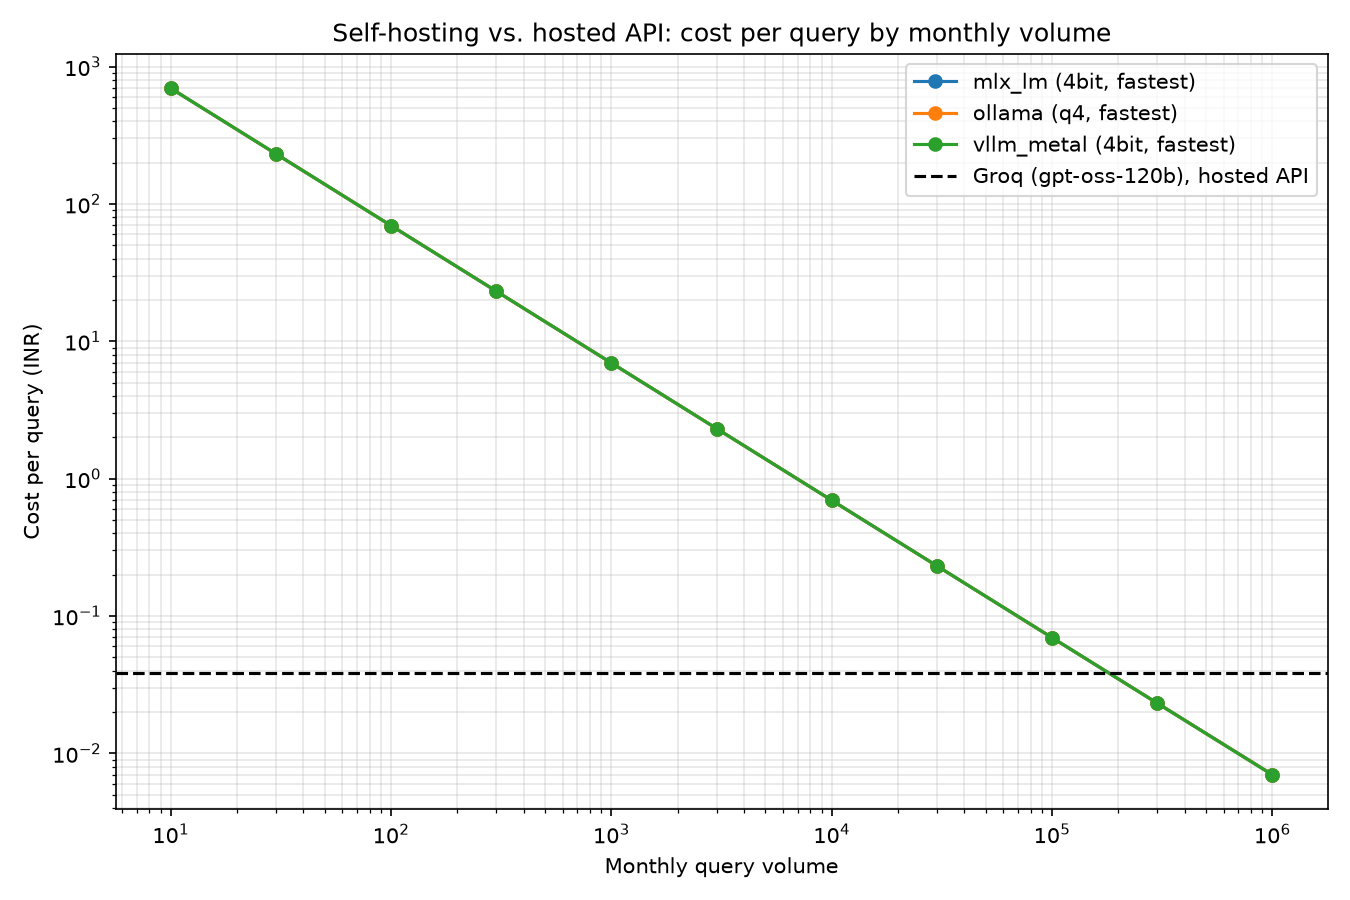
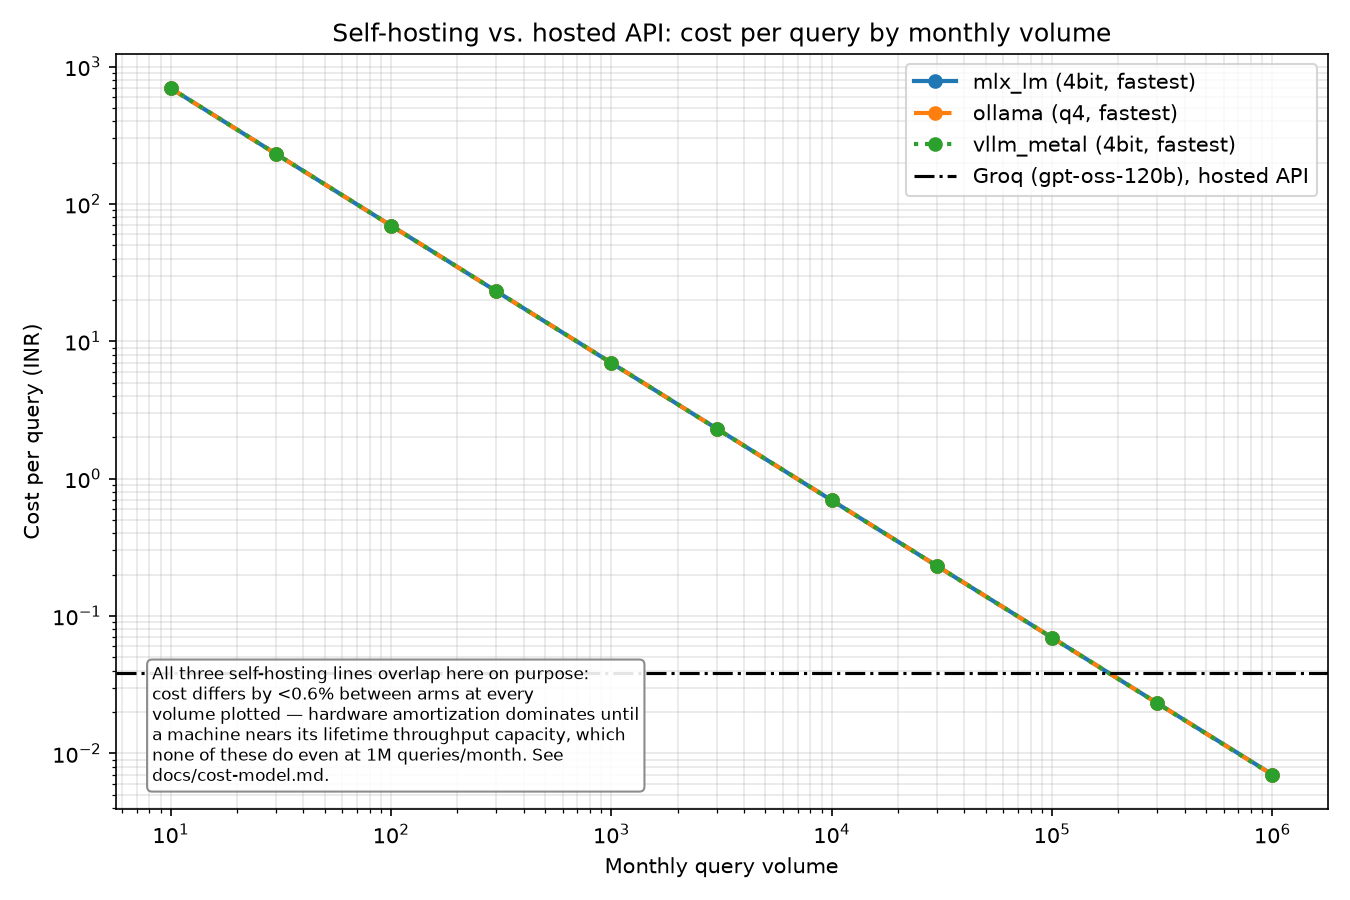
Fix break-even chart: mlx_lm/ollama lines were there, just invisible
Real bug report: mlx_lm and ollama appeared missing from
docs/break-even-curve.png. Checked the actual numbers rather than assuming
either "yes it's a bug" or "no it's fine" — all three curves were being
computed and plotted correctly, but at every volume in the grid (10 to
1,000,000 queries/month) none of the three arms get anywhere near the
machine's lifetime throughput capacity (utilization tops out around 20%
even at 1M/month), so cost is dominated entirely by throughput-independent
hardware amortization. The three lines differ by under 0.6% at every point
(verified: the max spread is at 1,000,000/month, not the 10k point the doc
text already called out) — invisible on a log-log plot regardless of
color.

Fixed by making this the chart's own explicit annotation instead of a
silent visual coincidence a reader has to puzzle out: computes the real
max relative spread across the grid and states it directly on the plot,
plus distinct linestyles (solid/dashed/dotted) per arm so it's visually
clear three series really were drawn, not that two are missing.

diff --git a/src/forge/phase3/build_report.py b/src/forge/phase3/build_report.py
@@ -175,6 +175,23 @@ def render_chart(results: list[dict], hosted_cost: float) -> None:
         ):
             fastest_per_arm[arm] = row
 
+    # Different linestyles, not just colors, per arm — see the annotation below for
+    # why: at every volume in this grid, the three self-hosting curves differ by
+    # well under 0.1%, so on a log-log plot they render as one visible line
+    # regardless of color. Distinguishable linestyles at least signal "three
+    # series were actually plotted here" rather than looking like two are missing.
+    linestyles = {"mlx_lm": "-", "ollama": "--", "vllm_metal": ":"}
+    max_relative_spread = 0.0
+    for volume in volumes:
+        costs_at_volume = [
+            local_cost_per_query(
+                ASSUMPTIONS, row["throughput_tokens_per_sec"], row["avg_completion_tokens"], volume
+            ).total_cost_inr
+            for row in fastest_per_arm.values()
+        ]
+        spread = (max(costs_at_volume) - min(costs_at_volume)) / min(costs_at_volume)
+        max_relative_spread = max(max_relative_spread, spread)
+
     for arm, row in fastest_per_arm.items():
         costs = [
             local_cost_per_query(
@@ -185,9 +202,16 @@ def render_chart(results: list[dict], hosted_cost: float) -> None:
             ).total_cost_inr
             for v in volumes
         ]
-        ax.plot(volumes, costs, marker="o", label=f"{arm} ({row['variant']}, fastest)")
+        ax.plot(
+            volumes,
+            costs,
+            marker="o",
+            linestyle=linestyles.get(arm, "-"),
+            linewidth=2,
+            label=f"{arm} ({row['variant']}, fastest)",
+        )
 
-    ax.axhline(hosted_cost, color="black", linestyle="--", label="Groq (gpt-oss-120b), hosted API")
+    ax.axhline(hosted_cost, color="black", linestyle="-.", label="Groq (gpt-oss-120b), hosted API")
     ax.set_xscale("log")
     ax.set_yscale("log")
     ax.set_xlabel("Monthly query volume")
@@ -195,6 +219,25 @@ def render_chart(results: list[dict], hosted_cost: float) -> None:
     ax.set_title("Self-hosting vs. hosted API: cost per query by monthly volume")
     ax.legend()
     ax.grid(True, which="both", alpha=0.3)
+    # The three self-hosting lines are visually indistinguishable on purpose, not
+    # a plotting bug: hardware amortization dominates cost at every volume this
+    # grid tests (none of the three variants approach the machine's lifetime
+    # throughput capacity even at 1M queries/month — see docs/cost-model.md), so
+    # throughput differences of up to 3x between arms produce a real but tiny
+    # cost difference, well under 1% at every point plotted.
+    ax.annotate(
+        f"All three self-hosting lines overlap here on purpose:\n"
+        f"cost differs by <{max_relative_spread:.1%} between arms at every\n"
+        f"volume plotted — hardware amortization dominates until\n"
+        f"a machine nears its lifetime throughput capacity, which\n"
+        f"none of these do even at 1M queries/month. See\n"
+        f"docs/cost-model.md.",
+        xy=(0.03, 0.03),
+        xycoords="axes fraction",
+        fontsize=8,
+        va="bottom",
+        bbox={"boxstyle": "round", "facecolor": "white", "edgecolor": "gray", "alpha": 0.9},
+    )
     fig.tight_layout()
     OUTPUT_CHART.parent.mkdir(parents=True, exist_ok=True)
     fig.savefig(OUTPUT_CHART, dpi=150)
